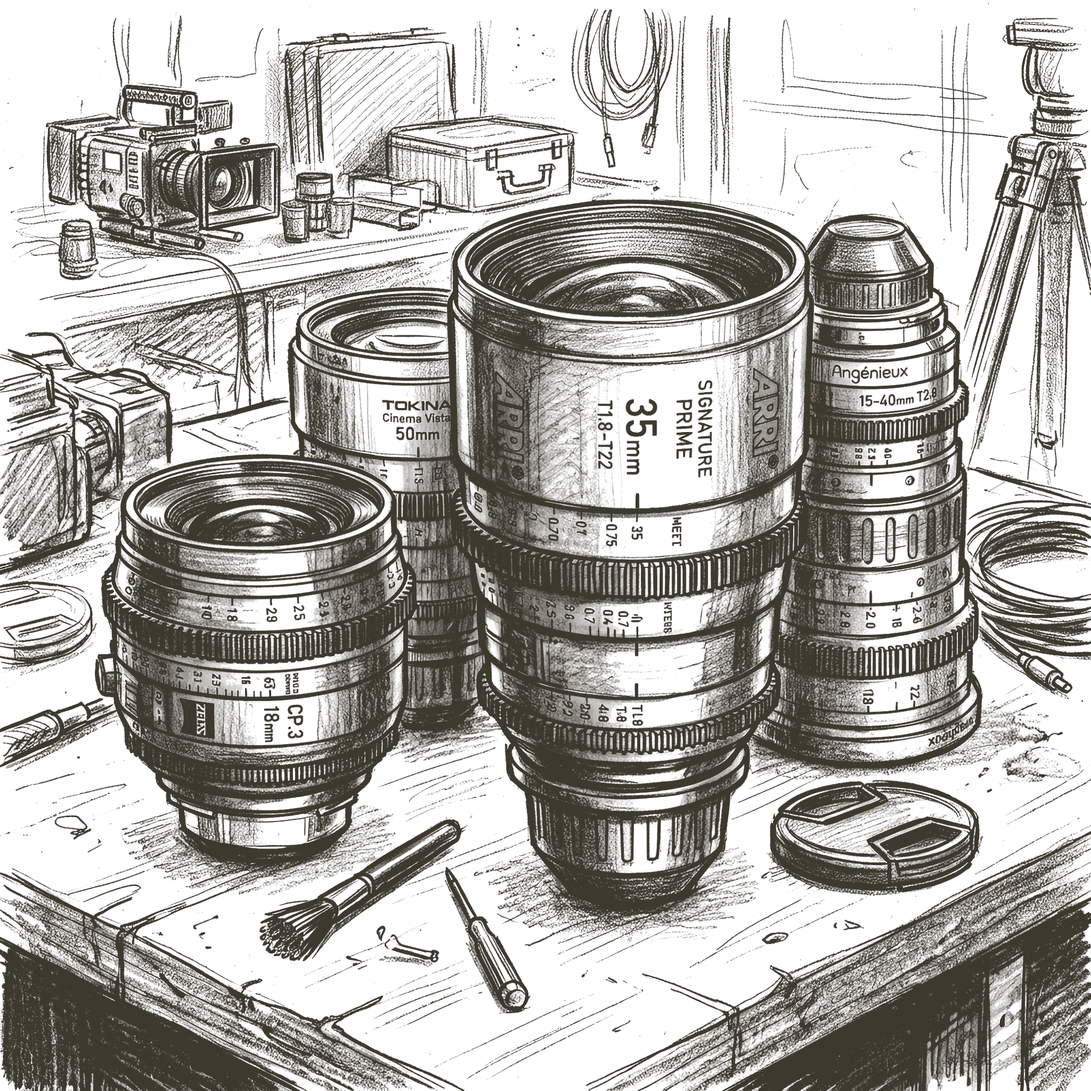
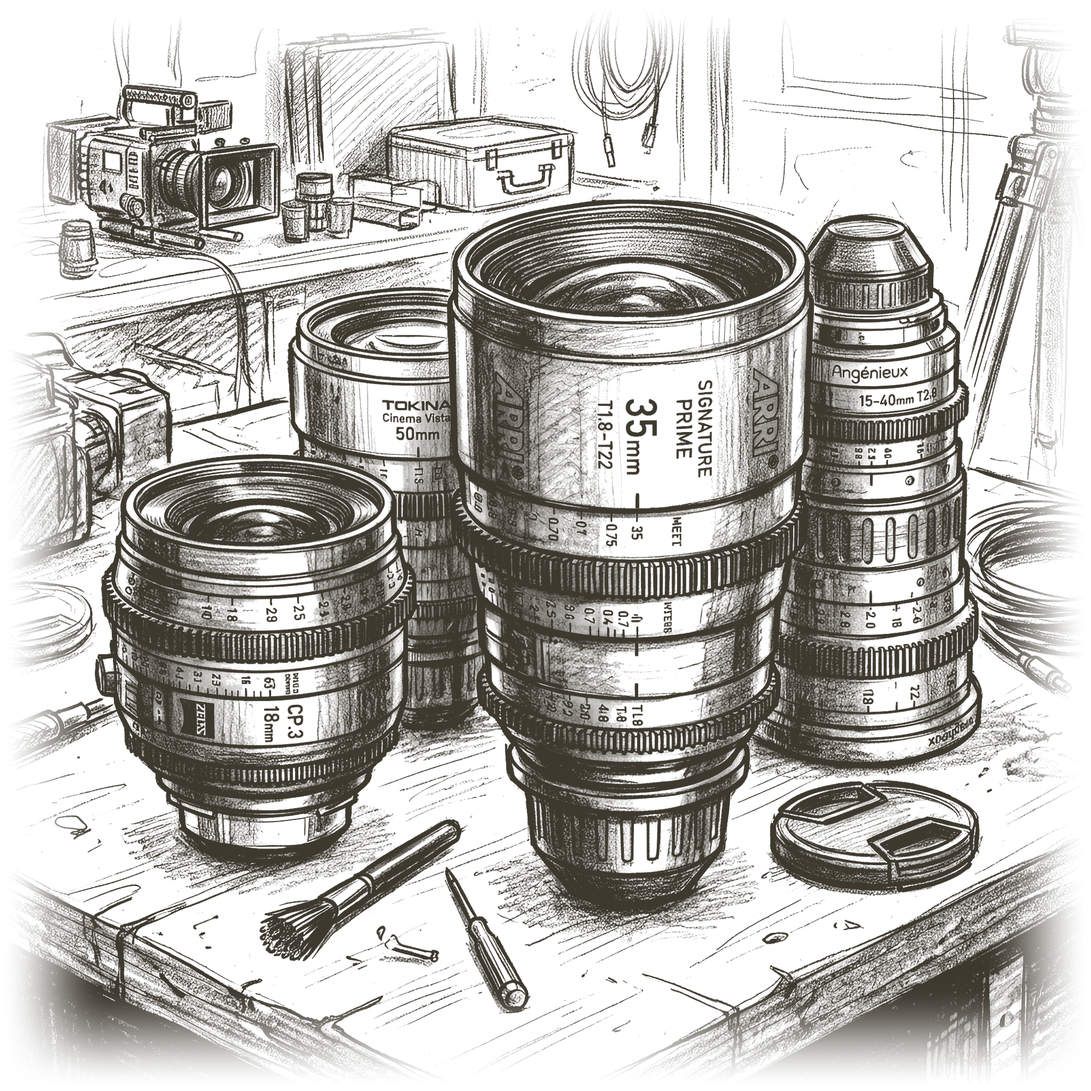
hero: feather the station art, drop the set, checker the paper
The grip, lighting and lenses drawings are cut off in the source files
themselves — strokes run off the edge of the artwork. Feathering the outer
tenth into transparency lets them dissolve into the paper instead of ending
on a hard straight line against the panel frame.

With the whole drawing shown in every board, the drawn set behind them was
competing clutter, so the background is now just the sheet the boards are
pinned to: checkered storyboard paper. That orphaned the truss, wall and
floor line along with the hatch patterns and sketch primitives that only
drew them; all removed rather than left dead.

diff --git a/papa-rentals/src/components/StudioScene.tsx b/papa-rentals/src/components/StudioScene.tsx
@@ -3,15 +3,9 @@ import type { ReactNode } from 'react'
 /*
  * StudioScene — the storyboard panorama.
  *
- * Drawn as a director's board: rough graphite pencil on paper. Roughness
- * comes from three stacked techniques:
- *   1. a per-layer displacement filter (organic wobble on every stroke)
- *   2. <R> double-stroking — every important silhouette is drawn twice with a
- *      small offset, the way you press over a line you like
- *   3. overshoot + construction lines left in the drawing on purpose
- *
- * Ten stations sit on a 3960-unit board, one per rental department, spaced to
- * match the camera stops in StudioHero.
+ * Checkered storyboard paper with ten boards pinned across it, one per rental
+ * department, spaced to match the camera stops in StudioHero. Everything drawn
+ * here is frame and annotation; the artwork itself lives in the boards.
  */
 
 export const SCENE_W = 3960
@@ -21,24 +15,8 @@ export const STATION_X = [1440, 540, 900, 1260, 1620, 1980, 2340, 2700, 3060, 34
 
 const INK = '#3d382f'
 const INK_SOFT = '#7d766a'
-const MARKER = '#ff6b2c'
 
 /* ---------------- sketch primitives ---------------- */
-
-/** rough double-stroked path: the confident line plus its searching twin */
-function R({ d, w = 2.6, o = 1, dx = 1.6, dy = 1.3 }: { d: string; w?: number; o?: number; dx?: number; dy?: number }) {
-  return (
-    <>
-      <path d={d} strokeWidth={w} opacity={o} />
-      <path d={d} strokeWidth={w * 0.62} opacity={o * 0.4} transform={`translate(${dx} ${dy})`} />
-    </>
-  )
-}
-
-/** construction line — the light guide stroke a sketch is built on */
-function G({ d }: { d: string }) {
-  return <path d={d} strokeWidth="1.3" opacity="0.26" />
-}
 
 function Note({ x, y, children, r = -2, s = 17 }: { x: number; y: number; children: ReactNode; r?: number; s?: number }) {
   return (
@@ -68,90 +46,6 @@ function PanArrow({ x, y, label }: { x: number; y: number; label: string }) {
   )
 }
 
-/** coiled cable on the floor — the detail that makes a set feel lived-in */
-function Cable({ x, y, w = 90 }: { x: number; y: number; w?: number }) {
-  return (
-    <g strokeWidth="1.8" opacity="0.62">
-      <path d={`M${x} ${y} q ${w * 0.18} -13 ${w * 0.36} 0 t ${w * 0.36} 0 t ${w * 0.36} -2`} />
-      <path d={`M${x + 6} ${y + 5} q ${w * 0.18} -12 ${w * 0.36} 0 t ${w * 0.36} 1`} opacity="0.6" />
-    </g>
-  )
-}
-
-/** stacked apple boxes */
-function AppleBox({ x, y, w = 52, h = 26 }: { x: number; y: number; w?: number; h?: number }) {
-  return (
-    <>
-      <R d={`M${x} ${y} h ${w} v ${h} h ${-w} z`} w={2.2} />
-      <G d={`M${x + 6} ${y + h / 2} h ${w - 12}`} />
-      <path d={`M${x + w * 0.3} ${y + 6} h ${w * 0.4}`} strokeWidth="1.5" opacity="0.45" />
-    </>
-  )
-}
-
-function Sandbag({ x, y }: { x: number; y: number }) {
-  return (
-    <>
-      <R d={`M${x - 20} ${y} q -6 -16 8 -18 q 12 -2 12 0 q 14 2 8 18 q -14 5 -28 0 z`} w={2.2} />
-      <path d={`M${x} ${y - 18} v -6`} strokeWidth="1.6" opacity="0.6" />
-    </>
-  )
-}
-
-/** iris: blade edges sweeping from the barrel wall to the opening */
-const IRIS = Array.from({ length: 9 }, (_, i) => {
-  const a = (i * 2 * Math.PI) / 9
-  const b = a + 0.78
-  const R = 46
-  const r = 20
-  return `M${(R * Math.cos(a)).toFixed(1)} ${(R * Math.sin(a)).toFixed(1)} L${(r * Math.cos(b)).toFixed(1)} ${(r * Math.sin(b)).toFixed(1)}`
-})
-const IRIS_OPENING = Array.from({ length: 9 }, (_, i) => {
-  const b = (i * 2 * Math.PI) / 9 + 0.78
-  const r = 20
-  return `${i === 0 ? 'M' : 'L'}${(r * Math.cos(b)).toFixed(1)} ${(r * Math.sin(b)).toFixed(1)}`
-}).join(' ') + ' Z'
-
-/* ---------------- technical-drawing toolkit ---------------- */
-
-/** dense parallel-line shading clipped to a shape — the workhorse of the style */
-function Shade({
-  id, d, x, y, w, h, gap = 5, o = 0.5, sw = 1, dir = 1,
-}: { id: string; d: string; x: number; y: number; w: number; h: number; gap?: number; o?: number; sw?: number; dir?: 1 | -1 }) {
-  const n = Math.ceil((w + h) / gap) + 2
-  return (
-    <>
-      <clipPath id={id}>
-        <path d={d} />
-      </clipPath>
-      <g clipPath={`url(#${id})`} strokeWidth={sw} opacity={o}>
-        {Array.from({ length: n }, (_, i) => {
-          const off = x - h + i * gap
-          return dir === 1
-            ? <path key={i} d={`M${off} ${y + h} L${off + h} ${y}`} />
-            : <path key={i} d={`M${off} ${y} L${off + h} ${y + h}`} />
-        })}
-      </g>
-    </>
-  )
-}
-
-/** knurled grip band: many short ticks, the way a focus ring is drawn */
-function Knurl({ x, y, w, h, gap = 4.5, o = 0.7 }: { x: number; y: number; w: number; h: number; gap?: number; o?: number }) {
-  return (
-    <g strokeWidth="1.2" opacity={o}>
-      {Array.from({ length: Math.max(1, Math.floor(w / gap)) }, (_, i) => (
-        <path key={i} d={`M${x + i * gap} ${y} V ${y + h}`} />
-      ))}
-    </g>
-  )
-}
-
-/** solid ink mass — barrel interiors, reel centres, shadow sides */
-function Solid({ d, o = 0.72 }: { d: string; o?: number }) {
-  return <path d={d} fill={INK} stroke="none" opacity={o} />
-}
-
 /* ---------------- defs ---------------- */
 
 export function SceneDefs() {
@@ -161,19 +55,11 @@ export function SceneDefs() {
         <feTurbulence type="fractalNoise" baseFrequency="0.02" numOctaves="3" seed="11" result="n" />
         <feDisplacementMap in="SourceGraphic" in2="n" scale="2.1" />
       </filter>
-      <filter id="sb-pencil2" x="-3%" y="-6%" width="106%" height="112%">
-        <feTurbulence type="fractalNoise" baseFrequency="0.026" numOctaves="2" seed="29" result="n" />
-        <feDisplacementMap in="SourceGraphic" in2="n" scale="2.6" />
-      </filter>
-      <pattern id="sb-hatch" patternUnits="userSpaceOnUse" width="7" height="7" patternTransform="rotate(34)">
-        <line x1="0" y1="0" x2="0" y2="7" stroke={INK} strokeWidth="1.1" opacity="0.3" />
-      </pattern>
-      <pattern id="sb-hatch2" patternUnits="userSpaceOnUse" width="9" height="9" patternTransform="rotate(-28)">
-        <line x1="0" y1="0" x2="0" y2="9" stroke={INK} strokeWidth="1" opacity="0.22" />
-      </pattern>
-      <pattern id="sb-cross" patternUnits="userSpaceOnUse" width="8" height="8" patternTransform="rotate(18)">
-        <line x1="0" y1="0" x2="0" y2="8" stroke={INK} strokeWidth="0.9" opacity="0.24" />
-        <line x1="0" y1="0" x2="8" y2="0" stroke={INK} strokeWidth="0.9" opacity="0.18" />
+      {/* checkered storyboard sheet: alternating tinted squares on a ruled grid */}
+      <pattern id="sb-check" patternUnits="userSpaceOnUse" width="96" height="96">
+        <rect x="0" y="0" width="48" height="48" fill={INK_SOFT} opacity="0.055" />
+        <rect x="48" y="48" width="48" height="48" fill={INK_SOFT} opacity="0.055" />
+        <path d="M0 0 H96 M0 48 H96 M0 0 V96 M48 0 V96" stroke={INK_SOFT} strokeWidth="0.9" opacity="0.24" fill="none" />
       </pattern>
     </defs>
   )
@@ -181,118 +67,16 @@ export function SceneDefs() {
 
 /* ---------------- background layer ---------------- */
 
+/*
+ * The set used to be drawn behind the boards — a truss, wall, windows, road
+ * cases. With the whole artwork now shown inside each board, that scenery
+ * fought the drawings for attention and read as clutter. So the background is
+ * just the sheet the boards are pinned to: checkered storyboard paper.
+ */
 export function SceneBackground() {
-  const truss = Array.from({ length: 27 }, (_, i) => -180 + i * 160)
-  const fixtures = Array.from({ length: 14 }, (_, i) => 120 + i * 300)
   return (
-    <g filter="url(#sb-pencil2)" stroke={INK_SOFT} strokeWidth="2" fill="none" strokeLinecap="round" strokeLinejoin="round">
-      {/* ── ceiling: truss with cross-bracing, running the full board ── */}
-      <path d={`M-240 22 H ${SCENE_W + 240} M-240 44 H ${SCENE_W + 240} M-240 74 H ${SCENE_W + 240}`} opacity="0.7" />
-      {truss.map((x) => (
-        <g key={x} opacity="0.5">
-          <path d={`M${x} 22 L ${x + 80} 44 M${x + 80} 22 L ${x} 44`} strokeWidth="1.5" />
-          <path d={`M${x} 22 V 44`} strokeWidth="1.6" />
-        </g>
-      ))}
-      {/* hanging conduit + safety chains between the two rails */}
-      {truss.filter((_, i) => i % 2 === 0).map((x) => (
-        <path key={`c${x}`} d={`M${x + 40} 44 q 6 16 0 30`} opacity="0.32" strokeWidth="1.4" />
-      ))}
-      {/* HVAC duct run */}
-      <g opacity="0.4">
-        <path d="M-240 88 H 900 M-240 118 H 900" strokeWidth="1.8" />
-        {Array.from({ length: 8 }, (_, i) => -160 + i * 140).map((x) => <path key={x} d={`M${x} 88 V 118`} strokeWidth="1.4" />)}
-        <path d="M2500 84 H 3960 M2500 112 H 3960" strokeWidth="1.8" />
-        {Array.from({ length: 10 }, (_, i) => 2560 + i * 140).map((x) => <path key={x} d={`M${x} 84 V 112`} strokeWidth="1.4" />)}
-      </g>
-
-      {/* ── hanging fixtures every ~300 units, alternating types ── */}
-      {fixtures.map((x, i) => (
-        <g key={x} transform={`translate(${x} 0)`} opacity={i % 3 === 1 ? 0.72 : 0.92}>
-          <path d="M0 74 v 22" />
-          <path d="M-4 74 v 22" opacity="0.4" />
-          {i % 3 === 0 ? (
-            <>
-              {/* fresnel with barn doors */}
-              <R d="M-17 96 h 34 l -6 32 h -22 z" w={2.1} o={0.9} />
-              <path d="M-19 94 l -13 -15 M19 94 l 13 -15 M-13 92 l -7 -17 M13 92 l 7 -17" opacity="0.6" />
-              <path d={`M-11 128 l -18 36 M11 128 l 18 36`} opacity="0.26" />
-            </>
-          ) : i % 3 === 1 ? (
-            <>
-              {/* soft panel */}
-              <R d="M-24 96 h 48 v 26 h -48 z" w={2} o={0.85} />
-              <path d="M-24 104 h 48 M-24 114 h 48" opacity="0.4" strokeWidth="1.4" />
-              <path d="M-20 122 l -12 30 M20 122 l 12 30" opacity="0.22" />
-            </>
-          ) : (
-            <>
-              {/* space light / china ball */}
-              <path d="M0 96 a 20 20 0 1 0 0.1 0" strokeWidth="2.1" />
-              <path d="M-18 104 q 18 10 36 0 M-14 92 q 14 -8 28 0" opacity="0.4" strokeWidth="1.4" />
-            </>
-          )}
-        </g>
-      ))}
-
-      {/* ── walls: windows, conduit runs, boards, signage ── */}
-      <R d={`M-240 306 Q 900 300 2000 307 T ${SCENE_W + 240} 305`} w={2} o={0.85} />
-      {/* conduit along the wall */}
-      <path d={`M-240 176 H ${SCENE_W + 240}`} opacity="0.28" strokeWidth="1.5" />
-      {Array.from({ length: 20 }, (_, i) => -100 + i * 210).map((x) => (
-        <path key={`cl${x}`} d={`M${x} 172 v 8`} opacity="0.3" strokeWidth="1.4" />
-      ))}
-
-      {[{ x: 1030, w: 370, h: 172 }, { x: 2860, w: 310, h: 158 }].map(({ x, w, h }) => (
-        <g key={x}>
-          <R d={`M${x} 92 h ${w} v ${h} h ${-w} z`} w={2} o={0.85} />
-          {[0.25, 0.5, 0.75].map((f) => <path key={f} d={`M${x + w * f} 92 V ${92 + h}`} opacity="0.6" />)}
-          <path d={`M${x} ${92 + h / 2} H ${x + w}`} opacity="0.6" />
-          <path d={`M${x + 30} ${92 + h} L ${x - 80} 306 M${x + w - 30} ${92 + h} L ${x + w + 92} 306`} opacity="0.3" />
-          <path d={`M${x + 30} ${92 + h} L ${x - 80} 306 L ${x + w + 92} 306 L ${x + w - 30} ${92 + h} z`} fill="url(#sb-cross)" stroke="none" opacity="0.38" />
-        </g>
-      ))}
-
-      {/* stencils, boards, signage spread across the whole wall */}
-      <Note x={286} y={158} r={0}>STAGE 2</Note>
-      <R d="M470 122 h 74 v 40 h -74 z" w={1.8} o={0.6} />
-      <path d="M480 136 h 54 M480 148 h 38" opacity="0.45" />
-      <Note x={1560} y={150} r={0} s={15}>NO SMOKING</Note>
-      <R d="M2020 118 h 58 v 34 h -58 z" w={1.7} o={0.5} />
-      <path d="M2030 130 h 38 M2030 142 h 24" opacity="0.4" />
-      <Note x={2420} y={146} r={0} s={15}>EXIT</Note>
-      <path d="M2404 152 h 66" opacity="0.4" strokeWidth="1.6" />
-      <R d="M3480 112 h 96 v 62 h -96 z" w={1.8} o={0.55} />
-      <path d="M3492 130 h 70 M3492 144 h 70 M3492 158 h 44" opacity="0.42" />
-      <Note x={3470} y={102} r={0} s={15}>CALL SHEET</Note>
-      {/* wall clock */}
-      <circle cx="1700" cy="136" r="26" opacity="0.6" />
-      <path d="M1700 136 V 118 M1700 136 l 12 8" opacity="0.6" />
-      {[0, 90, 180, 270].map((a) => (
-        <path key={a} d={`M${1700 + 22 * Math.cos((a * Math.PI) / 180)} ${136 + 22 * Math.sin((a * Math.PI) / 180)} l ${3 * Math.cos((a * Math.PI) / 180)} ${3 * Math.sin((a * Math.PI) / 180)}`} opacity="0.5" strokeWidth="1.6" />
-      ))}
-
-      {/* leaning ladder */}
-      <g opacity="0.7">
-        <path d="M2180 306 L 2216 130 M2210 306 L 2246 130" />
-        {[0.15, 0.32, 0.49, 0.66, 0.83].map((f) => (
-          <path key={f} d={`M${2180 + 36 * f} ${306 - 176 * f} L ${2210 + 36 * f} ${306 - 176 * f}`} strokeWidth="1.6" />
-        ))}
-      </g>
-
-      {/* shelving + stacked road cases along the back wall */}
-      {[760, 3180].map((x) => (
-        <g key={x} opacity="0.5">
-          <R d={`M${x} 240 h 120 v 66 h -120 z`} w={1.8} />
-          <R d={`M${x + 16} 196 h 88 v 44 h -88 z`} w={1.8} />
-          <path d={`M${x} 272 h 120 M${x + 16} 218 h 88`} opacity="0.6" />
-          <path d={`M${x + 40} 240 v 66 M${x + 80} 240 v 66`} opacity="0.35" strokeWidth="1.4" />
-        </g>
-      ))}
-      <g opacity="0.45">
-        <R d="M1840 250 h 96 v 56 h -96 z" w={1.7} />
-        <path d="M1840 278 h 96 M1888 250 v 56" opacity="0.55" />
-      </g>
+    <g stroke={INK_SOFT} fill="none">
+      <rect x={-240} y={-40} width={SCENE_W + 480} height={SCENE_H + 80} fill="url(#sb-check)" stroke="none" />
     </g>
   )
 }
@@ -334,12 +118,11 @@ const STATION_ART = [
 export function SceneStations() {
   return (
     <g>
-      {/* pencil-filtered line work: the set itself, not the gear */}
+      {/* pencil-filtered line work: the boards and the director's marks */}
       <g filter="url(#sb-pencil)" stroke={INK} strokeWidth="2.7" fill="none" strokeLinecap="round" strokeLinejoin="round">
-        <PanArrow x={700} y={110} label="PAN" />
-        <PanArrow x={1780} y={112} label="DOLLY IN" />
-        <PanArrow x={2860} y={108} label="PAN" />
-        <R d={`M-240 386 Q 1200 380 2400 386 T ${SCENE_W + 240} 384`} w={2.2} o={0.7} />
+        <PanArrow x={700} y={392} label="PAN" />
+        <PanArrow x={1780} y={394} label="DOLLY IN" />
+        <PanArrow x={2860} y={390} label="PAN" />
         {/* the boards' frames: drawn, so they belong in the wobble filter */}
         {STATION_ART.map((s, i) => (
           <g key={s.id} transform={panelTilt(i)}>

diff --git a/papa-rentals/public/sw.js b/papa-rentals/public/sw.js
@@ -2,7 +2,7 @@
 /* Bump this whenever an unhashed asset changes in place — the scene drawings
    live at fixed paths and are served stale-while-revalidate, so without a new
    cache name a returning visitor keeps seeing the previous artwork. */
-const CACHE = 'papa-rentals-v6'
+const CACHE = 'papa-rentals-v7'
 const IMG_CACHE = 'papa-img-v1'
 const IMG_CACHE_MAX = 60
 const PRECACHE = [
